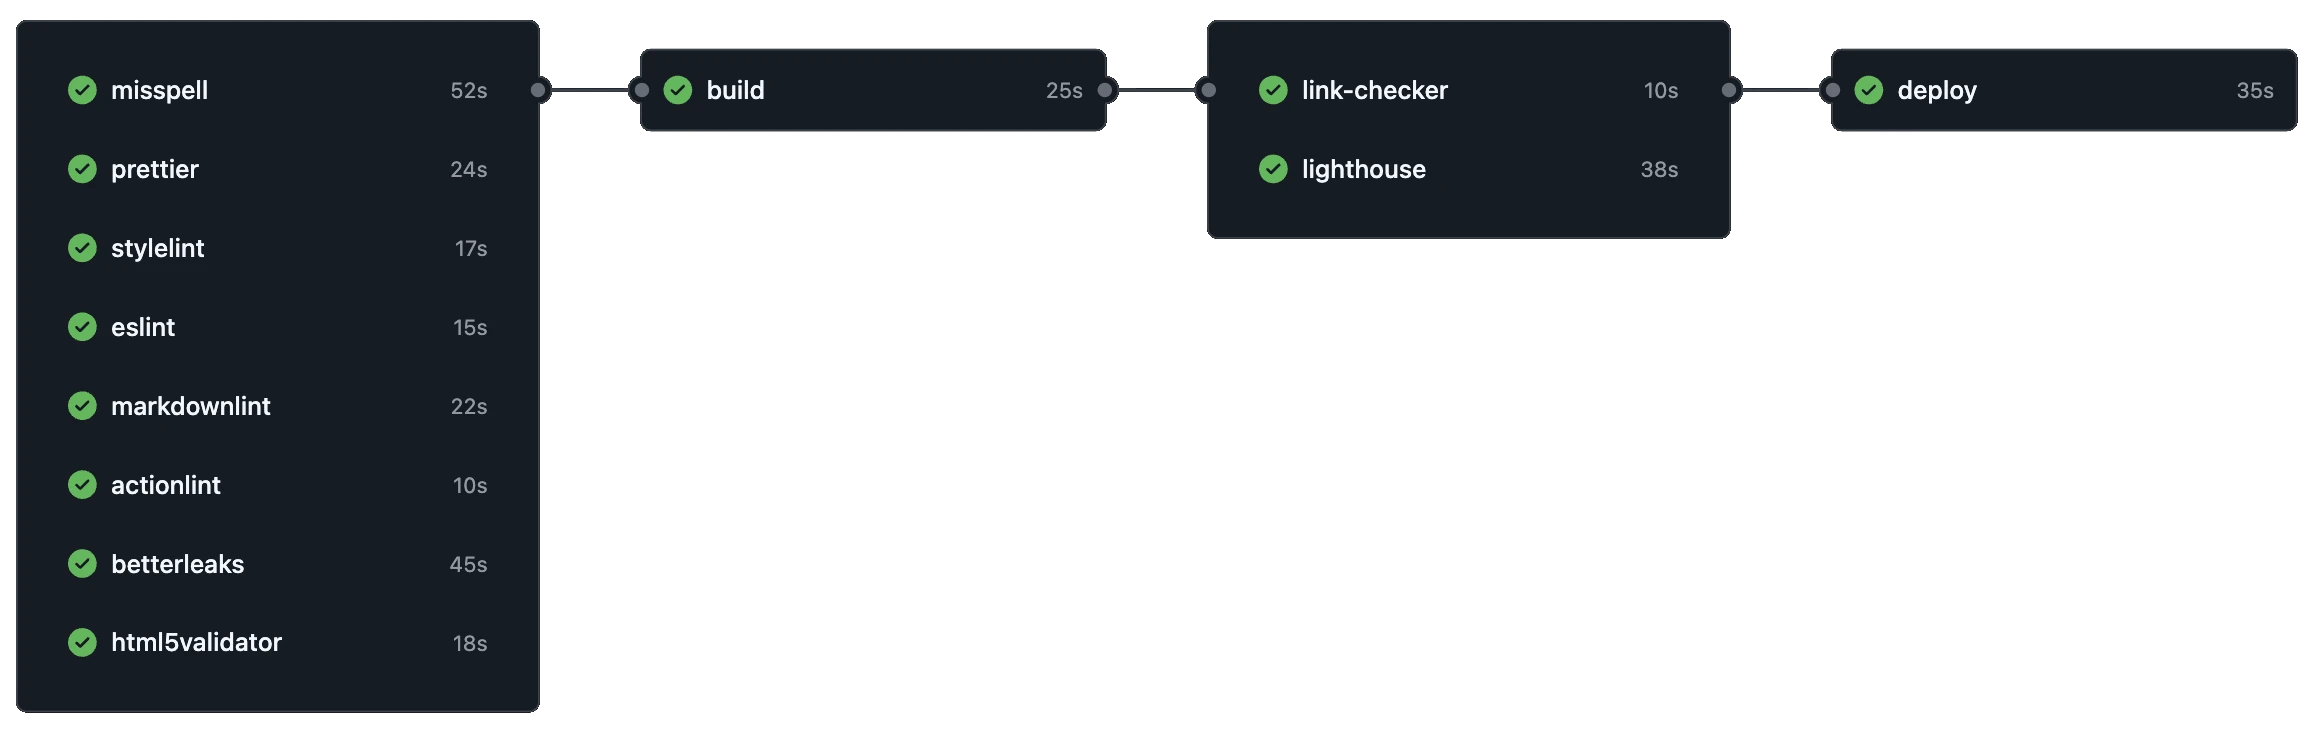
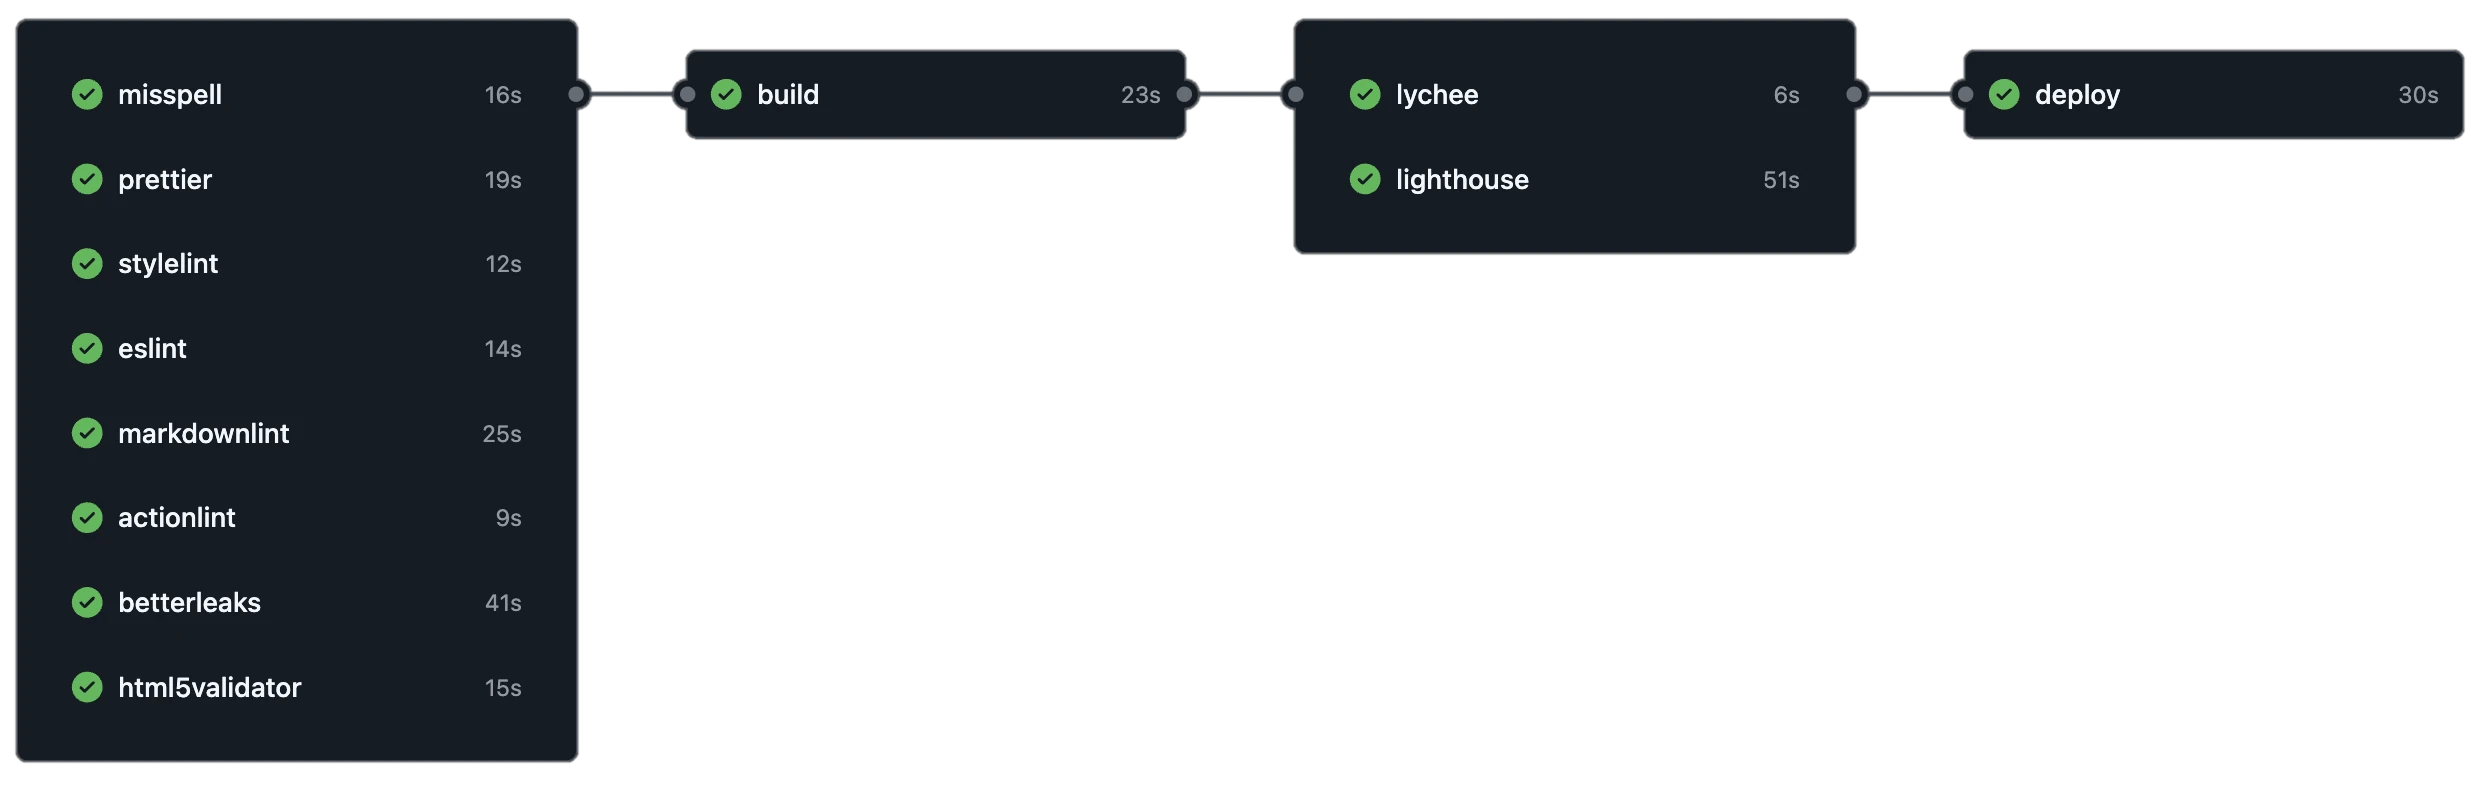
Updated CI/CD image. Fixed site width.

diff --git a/src/index.html b/src/index.html
@@ -204,20 +204,20 @@
                 <td>HTML + CSS</td>
               </tr>
               <tr>
+                <td>Hosting</td>
+                <td>
+                  <a href="https://pages.cloudflare.com/" class="secondary"
+                    >Cloudflare Pages</a
+                  >
+                </td>
+              </tr>
+              <tr>
                 <td>CI/CD</td>
                 <td>
                   <a
                     href="https://github.com/features/actions"
                     class="secondary"
                     >GitHub Actions</a
-                  >
-                </td>
-              </tr>
-              <tr>
-                <td>Hosting</td>
-                <td>
-                  <a href="https://pages.cloudflare.com/" class="secondary"
-                    >Cloudflare Pages</a
                   >
                 </td>
               </tr>
@@ -272,8 +272,8 @@
               <img
                 src="images/ci-cd.webp"
                 alt="Diagram of CI/CD workflow"
-                width="900"
-                height="213"
+                width="1265"
+                height="400"
                 id="pipeline-img"
               />
 
@@ -300,7 +300,7 @@
               <button
                 type="button"
                 class="hotspot"
-                style="top: 29%; left: 2%; width: 13%; height: 10%"
+                style="top: 28.5%; left: 2%; width: 13%; height: 10%"
                 data-description="Lints CSS and stylesheet files to enforce consistent conventions and catch syntax errors."
                 data-url="https://stylelint.io"
                 aria-label="stylelint"
@@ -309,7 +309,7 @@
               <button
                 type="button"
                 class="hotspot"
-                style="top: 40%; left: 2%; width: 13%; height: 10%"
+                style="top: 39%; left: 2%; width: 13%; height: 10%"
                 data-description="Analyzes JavaScript files to enforce coding standards, best practices, and potential runtime bugs."
                 data-url="https://eslint.org"
                 aria-label="eslint"
@@ -318,7 +318,7 @@
               <button
                 type="button"
                 class="hotspot"
-                style="top: 51%; left: 2%; width: 13%; height: 10%"
+                style="top: 50%; left: 2%; width: 13%; height: 10%"
                 data-description="Checks Markdown documentation for structure, formatting rules, and syntax correctness."
                 data-url="https://github.com/DavidAnson/markdownlint"
                 aria-label="markdownlint"
@@ -327,7 +327,7 @@
               <button
                 type="button"
                 class="hotspot"
-                style="top: 62%; left: 2%; width: 13%; height: 10%"
+                style="top: 61%; left: 2%; width: 13%; height: 10%"
                 data-description="Validates GitHub Actions workflow YAML files against static analysis rules and schemas."
                 data-url="https://rhysd.github.io/actionlint"
                 aria-label="actionlint"
@@ -336,7 +336,7 @@
               <button
                 type="button"
                 class="hotspot"
-                style="top: 73%; left: 2%; width: 13%; height: 10%"
+                style="top: 72%; left: 2%; width: 13%; height: 10%"
                 data-description="Scans repository history and commits for accidentally exposed secrets, API keys, and sensitive tokens."
                 data-url="https://betterleaks.com"
                 aria-label="betterleaks"
@@ -345,7 +345,7 @@
               <button
                 type="button"
                 class="hotspot"
-                style="top: 84%; left: 2%; width: 13%; height: 10%"
+                style="top: 83%; left: 2%; width: 13%; height: 10%"
                 data-description="Validates rendered or static HTML markup against W3C HTML5 specification standards."
                 data-url="https://html-validate.org"
                 aria-label="html5validator"

diff --git a/src/css/main.css b/src/css/main.css
@@ -3,7 +3,7 @@ html {
 }
 
 @media (width >= 1200px) {
-  .container {
+  main.container {
     max-width: 960px;
   }
 }
@@ -66,6 +66,9 @@ button.hotspot {
   all: unset;
   position: absolute;
   border: none !important;
+
+  /* border: 1px solid red !important; */
+
   cursor: pointer !important;
   display: block;
   box-sizing: border-box;
